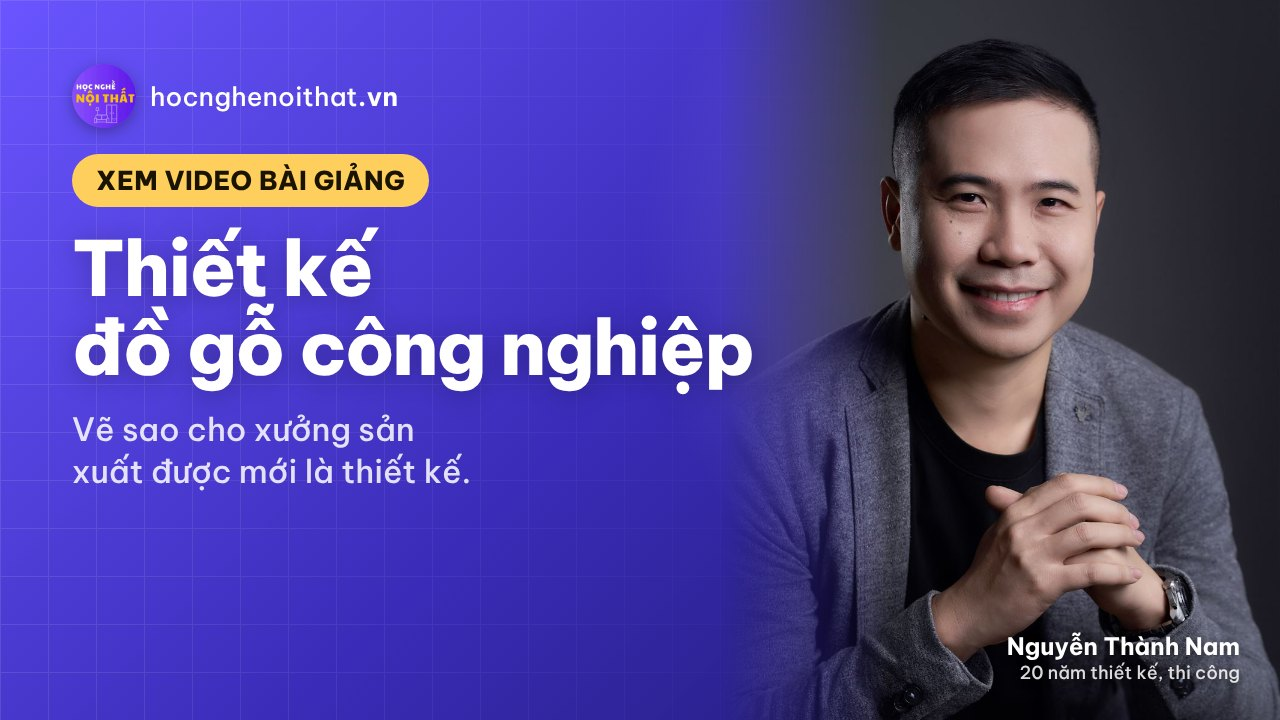
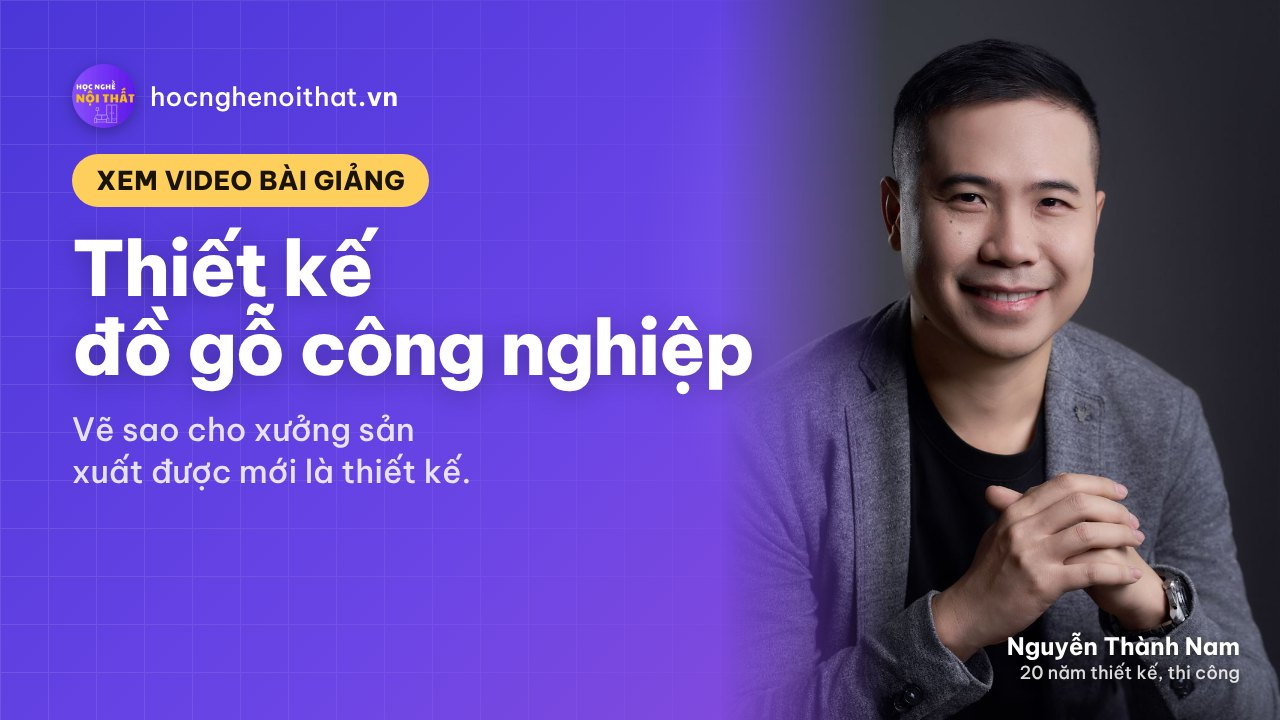
Khoá học: bỏ câu giới thiệu trên thẻ trang chủ, cả 5 thẻ và thumbnail chuyển màu tím-hồng; vạch tím-hồng cho dòng phụ phần sách; nút Khoá học / Mua sách chuyển màu
Claude-Session: https://claude.ai/code/session_01R1JQNXKSkK2vrspryuBMNZ

diff --git a/index.html b/index.html
@@ -1098,6 +1098,20 @@
   .how-tl{ margin:0 !important; }
   .how-tl .qr{ margin:4px 0 12px; }
   .how-tl .qr img{ max-width:200px; margin:0; }
+  /* Thẻ khoá học: chuyển màu tím → hồng, mỗi thẻ một sắc độ */
+  .course.c-violet{ background:linear-gradient(140deg, #4A36D8 0%, #6B45E6 50%, #9A4FD0 100%) !important; }
+  .course.c-blue  { background:linear-gradient(140deg, #5B45F0 0%, #7A4FE0 55%, #A85AC8 100%) !important; }
+  .course.c-teal  { background:linear-gradient(140deg, #6A4BE8 0%, #8F4FD6 55%, #C2509F 100%) !important; }
+  .course.c-plum  { background:linear-gradient(140deg, #7A4FE0 0%, #A44FC0 55%, #D8558F 100%) !important; }
+  .course.c-soon  { background:linear-gradient(140deg, #5340D6 0%, #8A4BCF 55%, #C65094 100%) !important; border:1px solid rgba(255,255,255,.14) !important; }
+  .course .course-name + .yt, .course .course-name + .yt-still{ margin-top:16px; }
+  /* Dòng phụ dưới tiêu đề phần sách: vạch tím → hồng */
+  #sach-title .sub-gap{ position:relative; padding-left:18px; }
+  #sach-title .sub-gap::before{ content:""; position:absolute; left:0; top:calc((1.25em - .7em) / 2 + .02em); width:4px; height:.7em; border-radius:4px; background:linear-gradient(180deg, #533AFD, #E0569B); }
+  /* Nút Khoá học / Mua sách trên đầu: chuyển màu nhẹ */
+  .nav-cta{ background:linear-gradient(120deg, #533AFD 0%, #8B4FD8 100%) !important; border:0 !important; }
+  .nav-cta + .nav-cta{ background:linear-gradient(120deg, #7A4FE0 0%, #D8558F 100%) !important; }
+  .nav-cta:hover{ filter:brightness(1.08); }
   /* nút Zalo tròn */
   .zalo-float{ width:58px; height:58px; min-height:0; padding:0; justify-content:center; border-radius:50% !important; background:#0068FF; }
   .zalo-float:hover{ background:#0057D9; }
@@ -1362,7 +1376,6 @@
       <div class="feature-grid">
         <div>
           <h3 class="course-name">Thiết kế đồ nội thất<br>gỗ công nghiệp</h3>
-          <p class="course-hook">Vẽ 3D chưa phải là thiết kế.<span>Vẽ sao cho xưởng sản xuất được mới là thiết kế.</span></p>
           <div class="yt" data-id="RMaDNY6P_i0"><a class="yt-btn" href="https://youtu.be/RMaDNY6P_i0" target="_blank" rel="noopener" aria-label="Phát video: Thiết kế đồ nội thất gỗ công nghiệp"><img src="anh/video-do-go.jpg" width="1280" height="720" alt="" loading="lazy" decoding="async"><span class="yt-play" aria-hidden="true"></span></a></div>
         </div>
         <div>
@@ -1374,28 +1387,24 @@
     <div class="course-grid">
       <article class="card course c-blue" id="khoa-nha-o">
         <h3 class="course-name">Thiết kế nội thất căn hộ chung cư</h3>
-        <p class="course-hook">Chủ động triển khai – tự làm được từ dự án nhỏ.</p>
           <div class="yt" data-id="4BU7QPbhG1c"><a class="yt-btn" href="https://youtu.be/4BU7QPbhG1c" target="_blank" rel="noopener" aria-label="Phát video: Thiết kế nội thất căn hộ chung cư"><img src="anh/video-nha-o.jpg" width="1280" height="720" alt="" loading="lazy" decoding="async"><span class="yt-play" aria-hidden="true"></span></a></div>
         <div class="price-line"><div class="course-price">2.000.000 <small>đ</small></div><a class="btn btn-glass price-detail" href="khoa-hoc/nha-o.html">Xem chi tiết <span aria-hidden="true">›</span></a></div>
       </article>
 
       <article class="card course c-teal" id="khoa-du-toan">
         <h3 class="course-name">Dự toán thi công nội thất cơ bản</h3>
-        <p class="course-hook">Sắp tự nhận công trình? Học làm báo giá bằng Excel cho chuẩn.</p>
           <div class="yt" data-id="xZTKqIOn3Ho"><a class="yt-btn" href="https://youtu.be/xZTKqIOn3Ho" target="_blank" rel="noopener" aria-label="Phát video: Dự toán thi công nội thất cơ bản"><img src="anh/video-du-toan.jpg" width="1280" height="720" alt="" loading="lazy" decoding="async"><span class="yt-play" aria-hidden="true"></span></a></div>
         <div class="price-line"><div class="course-price">2.000.000 <small>đ</small></div><a class="btn btn-glass price-detail" href="khoa-hoc/du-toan.html">Xem chi tiết <span aria-hidden="true">›</span></a></div>
       </article>
 
       <article class="card course c-plum" id="khoa-sale">
         <h3 class="course-name">Tư vấn thiết kế<br>dành cho sale nội thất</h3>
-        <p class="course-hook">Sale hiểu vật liệu, hiểu xưởng, giao đề bài đúng cho đội thiết kế.</p>
           <div class="yt" data-id="o3diN7-IPm8"><a class="yt-btn" href="https://youtu.be/o3diN7-IPm8" target="_blank" rel="noopener" aria-label="Phát video: Tư vấn thiết kế dành cho sale nội thất"><img src="anh/video-sale.jpg" width="1280" height="720" alt="" loading="lazy" decoding="async"><span class="yt-play" aria-hidden="true"></span></a></div>
         <div class="price-line"><div class="course-price">2.000.000 <small>đ</small></div><a class="btn btn-glass price-detail" href="khoa-hoc/sale.html">Xem chi tiết <span aria-hidden="true">›</span></a></div>
       </article>
 
       <article class="card course c-soon c-ready" id="khoa-cnc">
         <h3 class="course-name">Ra file cắt CNC với ABF</h3>
-        <p class="course-hook">Chốt mẫu xong là tự ra được file cắt, tránh hỏng ván, mất tiền.</p>
         <div class="yt yt-still"><img src="anh/video-cnc.jpg" width="1280" height="720" alt="Khoá Ra file cắt CNC với ABF, sắp ra mắt" loading="lazy" decoding="async"></div>
         <div class="price-line"><div class="course-price">4.000.000 <small>đ</small></div><a class="btn btn-glass price-detail" href="khoa-hoc/cnc.html">Xem chi tiết <span aria-hidden="true">›</span></a></div>
       </article>

diff --git a/cong-cu/thumbnail/mau.html b/cong-cu/thumbnail/mau.html
@@ -7,11 +7,11 @@
   html,body{ width:1280px; height:720px; overflow:hidden; }
   body{ font-family:"Be Vietnam Pro", Inter, sans-serif; color:#fff; position:relative; }
   .bg{ position:absolute; inset:0; }
-  .c-violet .bg{ background:linear-gradient(135deg, #6A55FF 0%, #3A2CB8 50%, #1B1560 100%); }
-  .c-blue   .bg{ background:linear-gradient(135deg, #3577E0 0%, #1B4596 50%, #0E2350 100%); }
-  .c-teal   .bg{ background:linear-gradient(135deg, #18A6B0 0%, #0B6A78 50%, #063A44 100%); }
-  .c-plum   .bg{ background:linear-gradient(135deg, #BD4AA6 0%, #7A2873 50%, #3C1440 100%); }
-  .c-slate  .bg{ background:linear-gradient(135deg, #46557A 0%, #232D48 55%, #121827 100%); }
+  .c-violet .bg{ background:linear-gradient(135deg, #4A36D8 0%, #6B45E6 50%, #9A4FD0 100%); }
+  .c-blue   .bg{ background:linear-gradient(135deg, #5B45F0 0%, #7A4FE0 55%, #A85AC8 100%); }
+  .c-teal   .bg{ background:linear-gradient(135deg, #6A4BE8 0%, #8F4FD6 55%, #C2509F 100%); }
+  .c-plum   .bg{ background:linear-gradient(135deg, #7A4FE0 0%, #A44FC0 55%, #D8558F 100%); }
+  .c-slate  .bg{ background:linear-gradient(135deg, #5340D6 0%, #8A4BCF 55%, #C65094 100%); }
   /* lưới mờ kiểu giấy kẻ ô bản vẽ */
   .grid{ position:absolute; inset:0; opacity:.10;
     background-image:linear-gradient(#fff 1px, transparent 1px), linear-gradient(90deg, #fff 1px, transparent 1px);

diff --git a/khoa-hoc/khoa-hoc.css b/khoa-hoc/khoa-hoc.css
@@ -92,3 +92,9 @@ figcaption{ margin-top:8px; font-size:14px; color:var(--muted); }
 .how .qr-here{ display:inline; }
 .yt-play{ width:clamp(40px, 9%, 58px) !important; bottom:6% !important; height:auto !important; aspect-ratio:1 / 1 !important; border-radius:50% !important; }
 .yt-play::before{ margin:-9px 0 0 -5px !important; }
+/* Phần đầu trang khoá học: chuyển màu tím → hồng */
+.c-violet{ --g:linear-gradient(140deg, #4A36D8 0%, #6B45E6 50%, #9A4FD0 100%); }
+.c-blue  { --g:linear-gradient(140deg, #5B45F0 0%, #7A4FE0 55%, #A85AC8 100%); }
+.c-teal  { --g:linear-gradient(140deg, #6A4BE8 0%, #8F4FD6 55%, #C2509F 100%); }
+.c-plum  { --g:linear-gradient(140deg, #7A4FE0 0%, #A44FC0 55%, #D8558F 100%); }
+.c-slate { --g:linear-gradient(140deg, #5340D6 0%, #8A4BCF 55%, #C65094 100%); }
